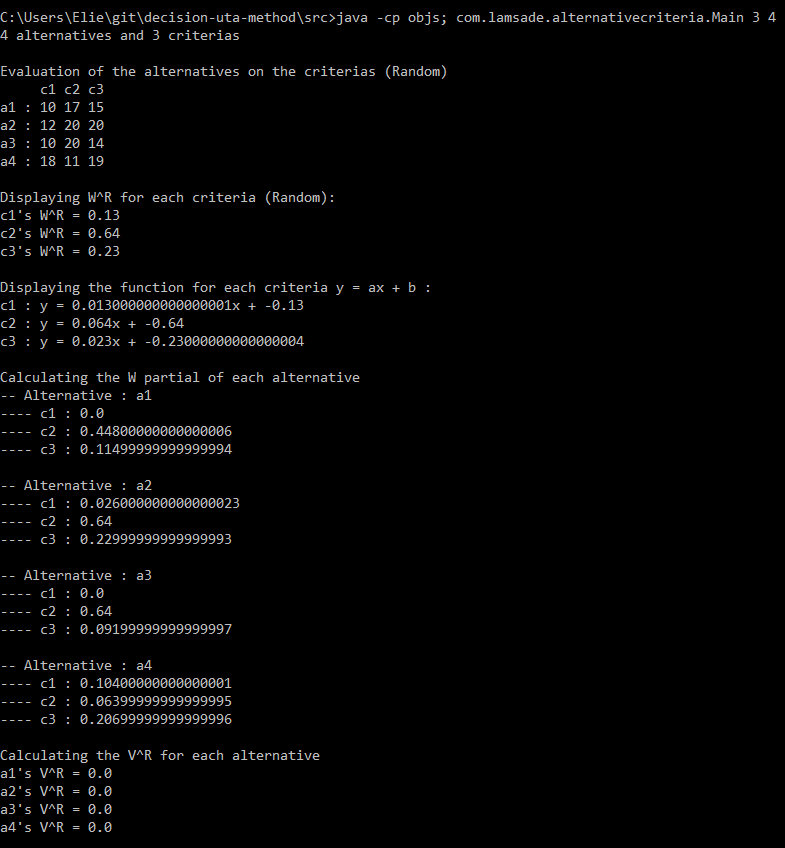
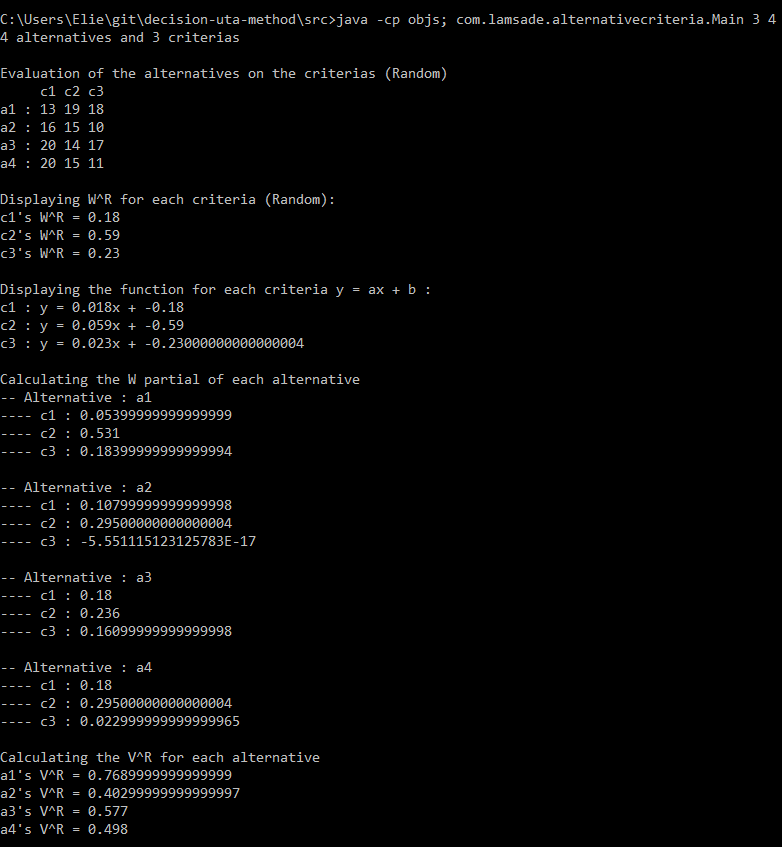
updates

diff --git a/src/alternative-criteria/Alternative.java b/src/alternative-criteria/Alternative.java
@@ -50,16 +50,11 @@ public class Alternative {
 
 	public void calculateWp(List<Criteria> criterias) {
 		this.criteriaWp = new HashMap<>();
+		double sumWp = 0.0;
 		for(Criteria criteria : criterias){
 			double wp = criteria.getA() * this.criteriaEvaluation.get(criteria) + criteria.getB();
 			this.criteriaWp.put(criteria,wp);
-		}
-	}
-
-	public void calculateVr(){
-		double sumWp = 0.0;
-		for (Map.Entry<Criteria,Double> entry : criteriaWp.entrySet()) {
-			sumWp += entry.getValue();
+			sumWp += wp;
 		}
 		this.vr = sumWp;
 	}

diff --git a/README.md b/README.md
@@ -89,7 +89,7 @@ int numCriteria; // default value : 3
 int numAlternative; // default value : 10
 ```
 
-If we want to generate 4 criterias and 9 alternatives, you should execute the following command : 
+If we want to generate 3 criterias and 4 alternatives, you should execute the following command : 
 #### on windows
 ```bash
 java -cp objs; com.lamsade.alternativecriteria.Main 3 4 
